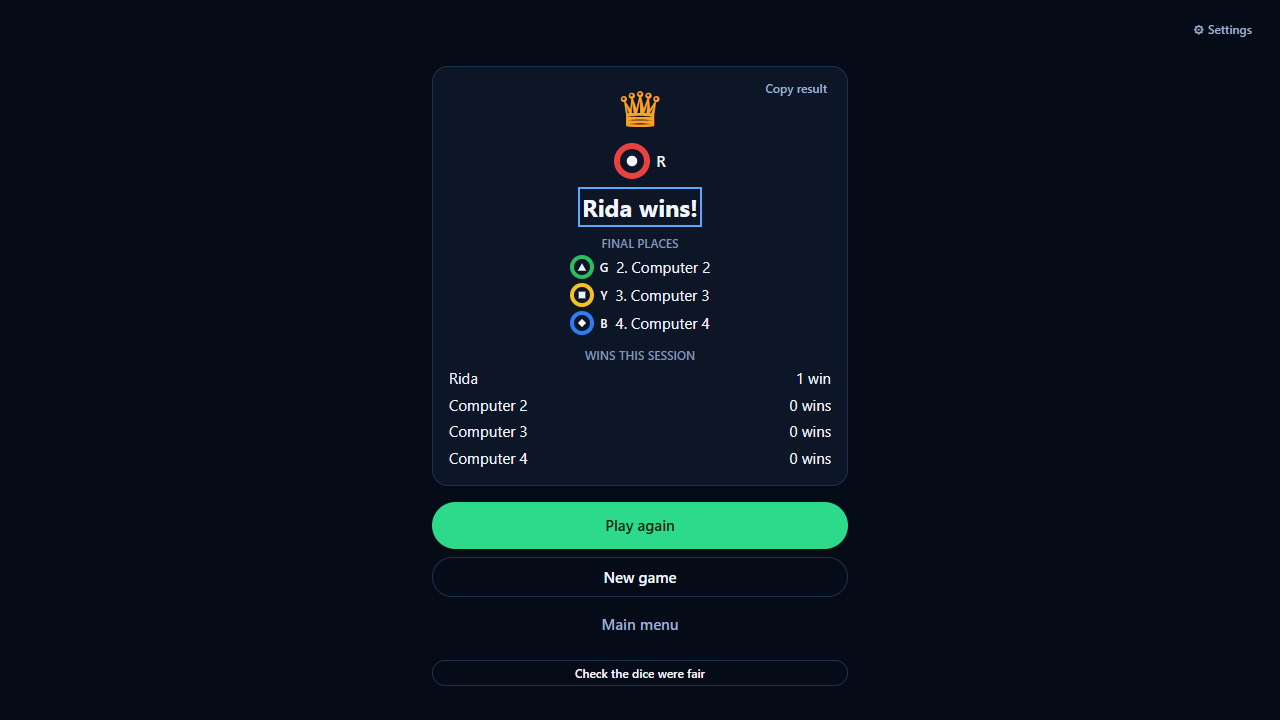
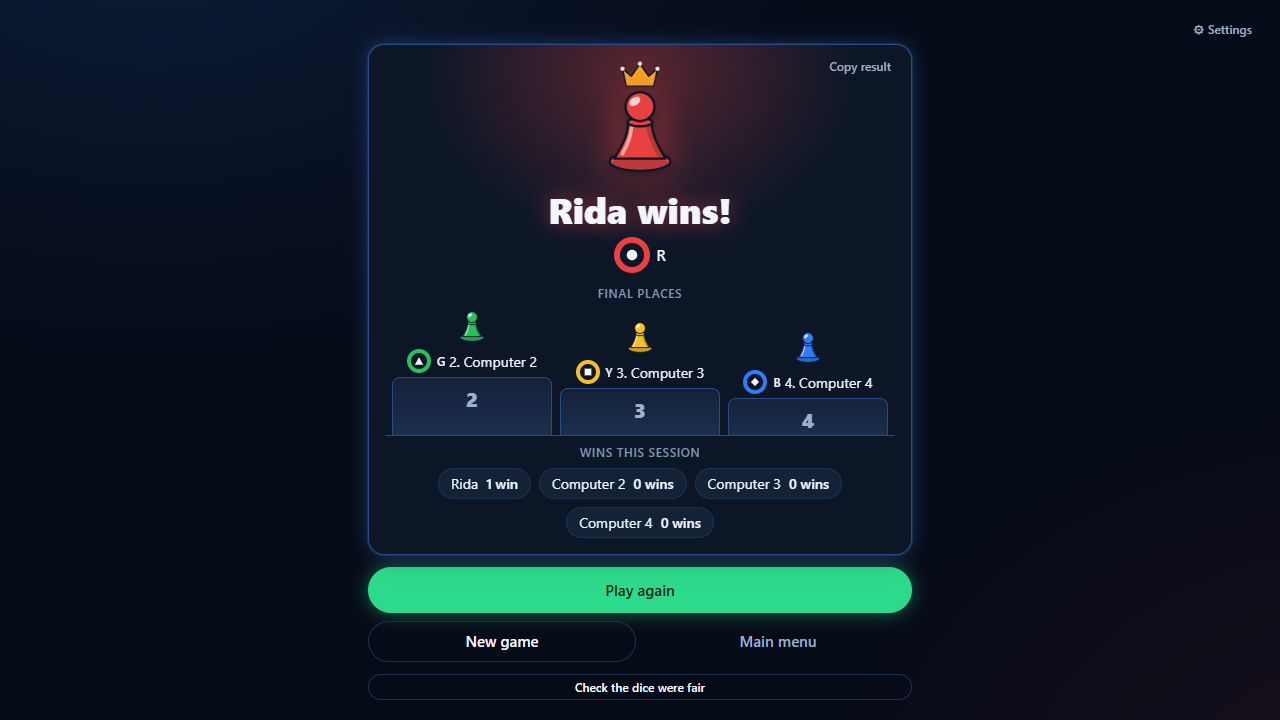
docs: record the visual refresh and retake its screenshots (FR-SYS-06, NFR-SYS-05, NFR-SYS-07, NFR-SYS-10)
The UI spec lists the two new tokens. Traceability notes the pawn badge,
the CSS die and the new win screen. The screenshots for the win screen,
all five themes, grayscale and the three window sizes are retaken with
npm run e2e -- smoke/themes/grayscale/sizes --save.

Changed region(s): [[0.2812, 0.0306, 0.7188, 0.9778], [0.0938, 0.0, 0.1562, 0.0306]]

diff --git a/docs/05-traceability.md b/docs/05-traceability.md
@@ -17,7 +17,7 @@ Status: `—` not started · `WIP` · `Done` · `Blocked (reason)` · `Dropped (
 | FR-SYS-03 Legal choices and move | FR-14–16, FR-18 | P8 | `src/store/gameStore.test.ts` covers EXC-03-2 in the store (an accepted move changes nothing until the snapshot arrives) and that legal moves come only from the server's list. `src/screens/GameScreen.test.tsx`, `src/interaction/useMoveSelection.test.ts`, `src/components/PieceLayer.test.tsx`, `src/components/Piece.test.tsx` and `src/components/MoveList.test.tsx` prove only `legalMoves` pieces are buttons (POST-03-1), the destination and capture preview, that one click never sends, that nothing moves before the new snapshot (EXC-03-2), and that a piece no longer legal shows the reason and resyncs (EXC-03-1, tests only). `docs/evidence/FR-SYS-03-move-checks.md` records whole games by mouse and by keyboard in a real match, and `docs/evidence/FR-SYS-03-capture-preview.png` shows the preview | Done |
 | FR-SYS-04 Invalid moves | FR-17 | P3, P8, P11 | `src/store/gameStore.test.ts` covers POST-04-1 (a rejected move leaves the snapshot deep-equal) and EXC-04-1 in the store (a timed-out command keeps state and clears pending). `src/adapter/LgsAdapter.test.ts` covers EXC-04-1 over a real socket (no ack, an ack for another request or an incomplete ack becomes `INTERNAL_ERROR`). `src/screens/GameScreen.test.tsx` proves on the game screen that a refused move shows the server's reason, drops the choice and leaves the board alone, that a reply with no reason gets friendly words (ALT-04-1), and that pressing again retries (EXC-04-1). These are tests only, because the real screen never offers an illegal piece. `src/components/ToastRegion.test.tsx` proves an error message stays until dismissed and sits in a live region. `src/store/gameStore.test.ts`, `src/interaction/useAppNavigation.test.ts` and `docs/evidence/NFR-SYS-04-resilience-checks.md` show the game kept through a dropped connection, a refresh and a lost snapshot | Done |
 | FR-SYS-05 Animation and events | FR-19, FR-23, FR-36, FR-38 | P8, P9 | `src/store/gameStore.test.ts` proves an event never changes the snapshot. `src/feedback/messages.test.ts` covers every message template and proves nothing is guessed (EXC-05-1), `src/feedback/useEventFeedback.test.ts` proves events play in order and that no effect appears without an event, `src/components/MessageLog.test.tsx` covers the log, and `src/components/EventBanner.test.tsx` covers the banners. `src/components/PieceLayer.test.tsx` proves a moved piece keeps its element and lands where the geometry says, `src/feedback/motion.test.ts` covers how long it takes, and `docs/evidence/FR-SYS-09-game-screen-checks.md` measured 0 px error after a live move. `src/interaction/useMoveWalk.test.ts` and `src/screens/GameScreen.test.tsx` prove the step-by-step walk, Skip, an interrupted walk ending where the snapshot says, and the same final board with animation on or off (POST-05-2). `docs/evidence/FR-SYS-03-move-checks.md` measures each of these in a real match, and `docs/evidence/FR-SYS-05-event-checks.md` records a capture playing in order, the log reading correctly, and Animations and Sound Off ending on the same board and words | Done |
-| FR-SYS-06 Progress and completion | FR-25–29 | P6, P10 | `src/config/geometry.test.ts` covers `progressCounts` and `src/store/gameStore.test.ts` covers `selectProgress` and `selectPlayerProgress`. `src/screens/GameScreen.test.tsx` checks Base, Track and Home against written-out numbers for all six fixtures, and that a dev-only check complains if `home` differs from `player.piecesHome`. `src/components/StatusPanel.test.tsx` covers the cards. `docs/evidence/FR-SYS-09-game-screen-checks.md` shows the cards matching the pieces in a live match. `src/screens/WinScreen.test.tsx` proves the winner is the server's and the ranking appears only if sent, in the server's order (POST-06-3, EXC-06-1). `src/store/gameStore.test.ts` proves each match counts once in the session score, and `src/feedback/diceCheck.test.ts` covers the dice check. `src/feedback/useEventFeedback.test.ts` and `src/screens/GameScreen.test.tsx` prove the win screen waits for `GAME_OVER` and the last move (POST-06-2). `docs/evidence/FR-SYS-06-win-restart-checks.md` and `docs/evidence/FR-SYS-06-win-screen.png` show it in real matches | Done |
+| FR-SYS-06 Progress and completion | FR-25–29 | P6, P10 | `src/config/geometry.test.ts` covers `progressCounts` and `src/store/gameStore.test.ts` covers `selectProgress` and `selectPlayerProgress`. `src/screens/GameScreen.test.tsx` checks Base, Track and Home against written-out numbers for all six fixtures, and that a dev-only check complains if `home` differs from `player.piecesHome`. `src/components/StatusPanel.test.tsx` covers the cards. `docs/evidence/FR-SYS-09-game-screen-checks.md` shows the cards matching the pieces in a live match. `src/screens/WinScreen.test.tsx` proves the winner is the server's and the ranking appears only if sent, in the server's order (POST-06-3, EXC-06-1). `src/store/gameStore.test.ts` proves each match counts once in the session score, and `src/feedback/diceCheck.test.ts` covers the dice check. `src/feedback/useEventFeedback.test.ts` and `src/screens/GameScreen.test.tsx` prove the win screen waits for `GAME_OVER` and the last move (POST-06-2). `docs/evidence/FR-SYS-06-win-restart-checks.md` and `docs/evidence/FR-SYS-06-win-screen.png` show it in real matches. The visual refresh redesigned the win screen (the winner's pawn and a podium in the server's order): `src/screens/WinScreen.test.tsx` passes unchanged, `npm run e2e -- smoke` keeps Play again in view at 1280×720 and 1024×768, and `docs/evidence/FR-SYS-06-win-copy-result.png` shows it | Done |
 | FR-SYS-07 Computer moves | FR-30–31 | P5, P7 | `src/store/gameStore.test.ts` covers `selectIsComputerTurn`. Choosing computer players is done: `src/screens/LobbyScreen.test.tsx` proves a seat fills only when `room:updated` arrives (POST-07-2), and `docs/evidence/FR-SYS-01-lobby-flow.md` shows it live in two tabs. `docs/evidence/FR-SYS-07-computer-move-from-snapshot.png` shows a computer's move drawn from a real snapshot on the game screen. `src/screens/GameScreen.test.tsx` proves a computer's turn says "Computer is thinking…" with the dots, and `docs/evidence/FR-SYS-07-computer-thinking.png` shows it in a real match | Done |
 | FR-SYS-08 Restart, exit, rematch | FR-32–34 | P5, P10 | `src/components/ConfirmDialog.test.tsx` covers the dialog alone. Leaving the lobby is connected: `src/screens/LobbyScreen.test.tsx` and `src/store/gameStore.test.ts` prove Cancel sends nothing (POST-08-1) and a failed leave keeps the room (POST-08-3), and `docs/evidence/FR-SYS-01-lobby-flow.md` shows Esc and Cancel changing nothing in a real browser. `src/components/GameMenu.test.tsx` and `src/screens/GameScreen.test.tsx` prove Restart and Leave ask first, Cancel changes nothing (POST-08-1), and a refused request keeps the game (POST-08-3, tests only). `src/screens/WinScreen.test.tsx`, `src/screens/StoppedScreen.test.tsx` and `src/interaction/useAppNavigation.test.ts` cover Play again, New game, Main menu and the stopped screen, which is tests only. `docs/evidence/FR-SYS-06-win-restart-checks.md` and `docs/evidence/FR-SYS-08-restart-confirm.png` show the rest in real matches with two tabs | Done |
 | FR-SYS-09 One-screen view | FR-35–36 | P6 | `docs/evidence/FR-SYS-09-one-screen-1280x720.png` and `docs/evidence/FR-SYS-09-game-screen-checks.md`: board, dice, turn, progress and messages all fit at 1280×720 with no scrolling, measured in Edge. Under 1024 px the layout stacks and hides nothing (ALT-09-1). `src/screens/GameScreen.test.tsx` proves every part is on the screen. `docs/evidence/FR-SYS-03-move-checks.md` re-measures the screen with the longest list of moves open, and `docs/evidence/FR-SYS-05-event-checks.md` with a full message log. P7 and P9 filled the dice and messages with live content | Done |
@@ -33,9 +33,9 @@ Status: `—` not started · `WIP` · `Done` · `Blocked (reason)` · `Dropped (
 | NFR-SYS-02 AI within 2 s | P12 | `src/feedback/aiTimings.ts` logs how long each computer turn took, in dev builds only, and `src/feedback/aiTimings.test.ts` covers it. `docs/evidence/NFR-SYS-02-ai-times.md`: one whole game at the mock's default speed, 169 computer turns, slowest 1,733 ms, none over 2 s. Measured against the mock, up to when the move arrives | Done |
 | NFR-SYS-03 No crash | P6, P11, P12 | Every screen has an error boundary. `src/components/ErrorBoundary.test.tsx` and `src/App.test.tsx` prove a snapshot that can't be drawn shows "Something went wrong — your game is safe" and a Try again button that sends `state:sync`, and that a good snapshot brings the board back. `src/App.test.tsx` also proves a lobby that can't be drawn gets the same way back. `docs/evidence/NFR-SYS-03-error-boundary.png` shows the error screen in a real browser, forced by the dev-only `?fixture=broken` that `src/mock/fixtures.test.ts` covers. `docs/evidence/FR-SYS-03-move-checks.md` records 2 whole games with no console errors, and `docs/evidence/FR-SYS-05-event-checks.md` and `docs/evidence/FR-SYS-06-win-restart-checks.md` 2 more each on later code, and `docs/evidence/NFR-SYS-04-resilience-checks.md` 2 more. `docs/evidence/NFR-SYS-03-runs.md` records 5 full games in a row on the production build with no error screen and no console errors | Done |
 | NFR-SYS-04 State kept on bad input | P3, P11, P12 | `src/store/gameStore.test.ts`: an older version is dropped, and a rejected or timed-out command leaves the snapshot deep-equal. `src/adapter/LgsAdapter.test.ts`: an incomplete reply is never applied. `src/store/gameStore.test.ts` and `src/feedback/useEventFeedback.test.ts` prove a lost connection keeps the board and events missed while away are never guessed. `src/interaction/useAppNavigation.test.ts` proves a refresh goes back to the right screen, and `src/App.test.tsx` covers the banner and the second-tab card. `src/components/ConnectionBanner.test.tsx` and `src/components/StillThereDialog.test.tsx` cover what the player is told. `docs/evidence/NFR-SYS-04-resilience-checks.md` shows a refresh, a reconnect, a lost snapshot and a second tab in real matches. `docs/evidence/NFR-SYS-04.md` has the P12 test run, and a browser check that fast repeated presses send one request and presses for moves not on offer send nothing | Done |
-| NFR-SYS-05 Dice not altered | P7, P12 | `src/components/Dice.test.tsx`: the face equals the value given, and no number shows while rolling. A search finds no `Math.random` in `src/`, and `eslint.config.js` now rejects it outside tests. `src/screens/GameScreen.test.tsx` proves the die lands on the server's 6, 1 and 3. `docs/evidence/FR-SYS-02-dice-checks.md` and `docs/evidence/NFR-SYS-05-die-shows-six.png` show the same forced rolls in a real match. `docs/evidence/NFR-SYS-05.md` has the P12 test run and search. The optional 3D die from P14 follows the same rule: `src/components/Dice3D.test.tsx` proves it gets no value while rolling, and `docs/evidence/P14-polish-checks.md` records six rolls in a real browser, each landing on the server's value (`docs/evidence/NFR-SYS-05-die3d-landed.png`) | Done |
+| NFR-SYS-05 Dice not altered | P7, P12 | `src/components/Dice.test.tsx`: the face equals the value given, and no number shows while rolling. A search finds no `Math.random` in `src/`, and `eslint.config.js` now rejects it outside tests. `src/screens/GameScreen.test.tsx` proves the die lands on the server's 6, 1 and 3. `docs/evidence/FR-SYS-02-dice-checks.md` and `docs/evidence/NFR-SYS-05-die-shows-six.png` show the same forced rolls in a real match. `docs/evidence/NFR-SYS-05.md` has the P12 test run and search. The optional 3D die from P14 follows the same rule: `src/components/Dice3D.test.tsx` proves it gets no value while rolling, and `docs/evidence/P14-polish-checks.md` records six rolls in a real browser, each landing on the server's value (`docs/evidence/NFR-SYS-05-die3d-landed.png`). Since the visual refresh the default die is a CSS cube (`src/components/DiceFace.tsx`): only its front face has pips, so it still shows only the server's value, and `src/components/Dice.test.tsx` passes unchanged | Done |
 | NFR-SYS-06 First-timer completes a turn | P12 | The design supports it with the rules summary (`src/components/RulesSummary.test.tsx`), highlighted pieces and plain words (`docs/evidence/NFR-SYS-08-keyboard.md`). Not run yet: the hallway test needs a person who hasn't seen the app. `docs/evidence/NFR-SYS-06-first-use.md` has the steps and a place for the result. `docs/evidence/NFR-SYS-06-walkthrough.md` records an expert walkthrough, which is not the hallway test: it found that the turn line didn't say to press Move after a piece was picked (fixed, and `src/screens/GameScreen.test.tsx` covers it) and that a skipped first turn doesn't say why (a team decision). Still needed: the hallway test | WIP |
-| NFR-SYS-07 Not colour alone | P4, P12 | `docs/evidence/NFR-SYS-07-player-marks.png`: the `PlayerMark` row in grayscale, where shape and letter still tell the four players apart. `PlayerMark` and `Piece` read `PLAYER_IDENTITY` in `src/config/players.ts`. `src/screens/LobbyScreen.test.tsx` proves every lobby seat shows its mark, empty seats included. `src/components/StatusPanel.test.tsx` proves the game screen's cards show more than colour, and `docs/evidence/NFR-SYS-07-board-grayscale.png` shows the board and status panel in grayscale. `docs/evidence/NFR-SYS-07-move-highlights-grayscale.png` and `docs/evidence/NFR-SYS-07-capture-grayscale.png` show the move highlights, destination marker and dashed capture ring in grayscale. P9's capture and finish effects are movement, and the log uses names, so neither depends on colour. `docs/evidence/NFR-SYS-07-win-grayscale.png` shows the win screen in grayscale. The connection banner's two states differ in words and a spinner as well as the border colour, and `src/components/ConnectionBanner.test.tsx` checks the words. `docs/evidence/NFR-SYS-07-game-dark.png`, `docs/evidence/NFR-SYS-07-game-light.png`, `docs/evidence/NFR-SYS-07-win-dark.png` and `docs/evidence/NFR-SYS-07-win-light.png` show the board, status panel and win screen in grayscale in both themes. `docs/evidence/NFR-SYS-07-contrast.md` checks every text on 11 screens and dialogs in both themes against WCAG AA: none below, the closest 5.33:1 | Done |
+| NFR-SYS-07 Not colour alone | P4, P12 | `docs/evidence/NFR-SYS-07-player-marks.png`: the `PlayerMark` row in grayscale, where shape and letter still tell the four players apart. `PlayerMark` and `Piece` read `PLAYER_IDENTITY` in `src/config/players.ts`. `src/screens/LobbyScreen.test.tsx` proves every lobby seat shows its mark, empty seats included. `src/components/StatusPanel.test.tsx` proves the game screen's cards show more than colour, and `docs/evidence/NFR-SYS-07-board-grayscale.png` shows the board and status panel in grayscale. `docs/evidence/NFR-SYS-07-move-highlights-grayscale.png` and `docs/evidence/NFR-SYS-07-capture-grayscale.png` show the move highlights, destination marker and dashed capture ring in grayscale. P9's capture and finish effects are movement, and the log uses names, so neither depends on colour. `docs/evidence/NFR-SYS-07-win-grayscale.png` shows the win screen in grayscale. The connection banner's two states differ in words and a spinner as well as the border colour, and `src/components/ConnectionBanner.test.tsx` checks the words. `docs/evidence/NFR-SYS-07-game-dark.png`, `docs/evidence/NFR-SYS-07-game-light.png`, `docs/evidence/NFR-SYS-07-win-dark.png` and `docs/evidence/NFR-SYS-07-win-light.png` show the board, status panel and win screen in grayscale in both themes. `docs/evidence/NFR-SYS-07-contrast.md` checks every text on 11 screens and dialogs in both themes against WCAG AA: none below, the closest 5.33:1. Since the visual refresh the pieces are glossy pawns whose white badge carries the player's shape (`src/components/Pawn.tsx`); the grayscale screenshots above were retaken with them, and `npm run e2e -- contrast` still passes in all five themes | Done |
 | NFR-SYS-08 Simple wording + keyboard | P4–P12 | `src/components/SegmentedControl.test.tsx`, `src/components/Dice.test.tsx`, `src/App.test.tsx` and `docs/evidence/NFR-SYS-08-kitchen-sink-checks.md` cover the controls on their own. `docs/evidence/FR-SYS-01-lobby-flow.md` records a keyboard-only run from the main screen through setup and the lobby to the game starting, and `docs/evidence/FR-SYS-09-game-screen-checks.md` records the Tab order and the `?` and Esc keys on the game screen. `src/interaction/useGameKeys.test.ts` covers `R`, `1`–`4`, `Enter`, `Esc` and `S`, and `docs/evidence/FR-SYS-02-dice-checks.md` shows rolling by `R` and Space with the die keeping focus. `docs/evidence/FR-SYS-03-move-checks.md` records a whole game, from the main screen to a winner, played with only the keyboard, and `docs/evidence/FR-SYS-06-win-restart-checks.md` records the game menu, the confirm dialog and the win screen used by keyboard alone. `src/App.test.tsx` proves the second-tab card takes the keyboard focus, and `docs/evidence/NFR-SYS-04-resilience-checks.md` records another whole game played by keyboard alone on the P11 code. Player-facing text is in `src/feedback/copy.ts`. `docs/evidence/NFR-SYS-08-keyboard.md` records the P12 run with no mouse, in Chrome and Firefox: setup, waiting room, roll, choose, move, restart, a whole game, Play again and leave. It also has a wording review of `src/feedback/copy.ts` that found nothing to change | Done |
 | NFR-SYS-09 Chrome / Firefox / Edge | P12 | `docs/evidence/NFR-SYS-09-browsers.md`: start, roll, move and win pass with no console errors in Chrome 157, Edge 157 and Firefox 160. In Firefox a whole keyboard-only game, the invalid-input checks and the error screen pass too | Done |
 | NFR-SYS-10 Window sizes | P6, P12 | `docs/evidence/NFR-SYS-10-1024-wide.png`, `docs/evidence/NFR-SYS-10-1366-wide.png` and `docs/evidence/NFR-SYS-10-1920-wide.png`, with measurements in `docs/evidence/FR-SYS-09-game-screen-checks.md`: the game screen has no scrolling and every part in view. `docs/evidence/FR-SYS-03-move-checks.md` re-measures the game screen with the longest list of moves, `docs/evidence/FR-SYS-05-event-checks.md` with a full message log, and `docs/evidence/FR-SYS-06-win-restart-checks.md` the win screen. `docs/evidence/NFR-SYS-10-sizes.md` and its 12 screenshots cover the main, setup, waiting room and game screens at 1024×768, 1366×768 and 1920×1080: no scrolling and every control in view | Done |

diff --git a/CHANGELOG.md b/CHANGELOG.md
@@ -18,3 +18,4 @@
 - After P12: GitHub runs our checks on every PR and on `main` (typecheck, lint, build, tests and the browser smoke test in Chrome), so a broken change shows up before it is merged (NFR-SYS-13).
 - After P12: "Your turn — now press Move" once a piece is picked, from an expert walkthrough of a first turn, plus the D3 v1.1 change list and a demo script (NFR-SYS-06).
 - P14: polish, not graded. Three more themes (Neon, Forest, Minimal), the final places revealed in turn with a Copy result button, and an optional 3D die that downloads only when turned on. 3D pieces and music were left out.
+- After P14: a visual refresh. Glossy pawns whose white badge keeps each player's shape, a 3D-looking die drawn in CSS that shows only the server's value, yards with starting spots, gold safe stars and a home badge, glowing panels on a deep backdrop, and a redesigned win screen with the winner's pawn and a podium (FR-SYS-06, FR-SYS-10, NFR-SYS-05, NFR-SYS-07).

diff --git a/docs/03-ui-spec.md b/docs/03-ui-spec.md
@@ -45,6 +45,8 @@ attribute on `<html>` and zero component changes.
   --p-green:  #2BBF5B;
   --p-yellow: #F4C026;
   --p-blue:   #2F7DF6;
+  --panel-edge: #2A4C86;
+  --glow:       rgb(64 140 255 / 0.30);
 }
 
 html[data-theme="light"] {
@@ -69,8 +71,13 @@ html[data-theme="light"] {
   --p-green:  #1E9E48;
   --p-yellow: #B88A00;
   --p-blue:   #2367D8;
+  --panel-edge: #C4D0E3;
+  --glow:       rgb(29 95 209 / 0.10);
 }
 ```
+
+`--panel-edge` and `--glow` came with the visual refresh (glossy pawns, a 3D die, glowing
+panels). They are for edges and shadows only, never behind text, so they don't change contrast.
 
 Check both themes for text contrast (aim for 4.5:1 on body text) before
 calling P4 done.
